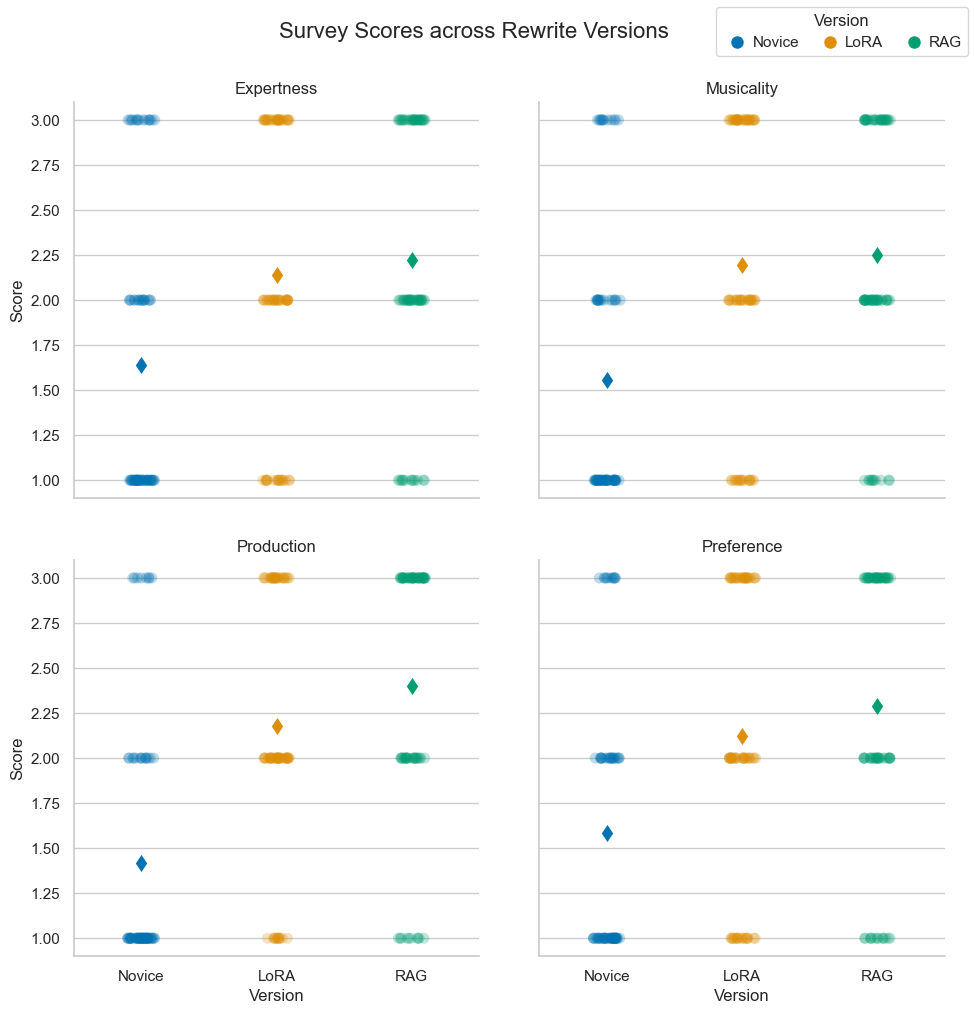
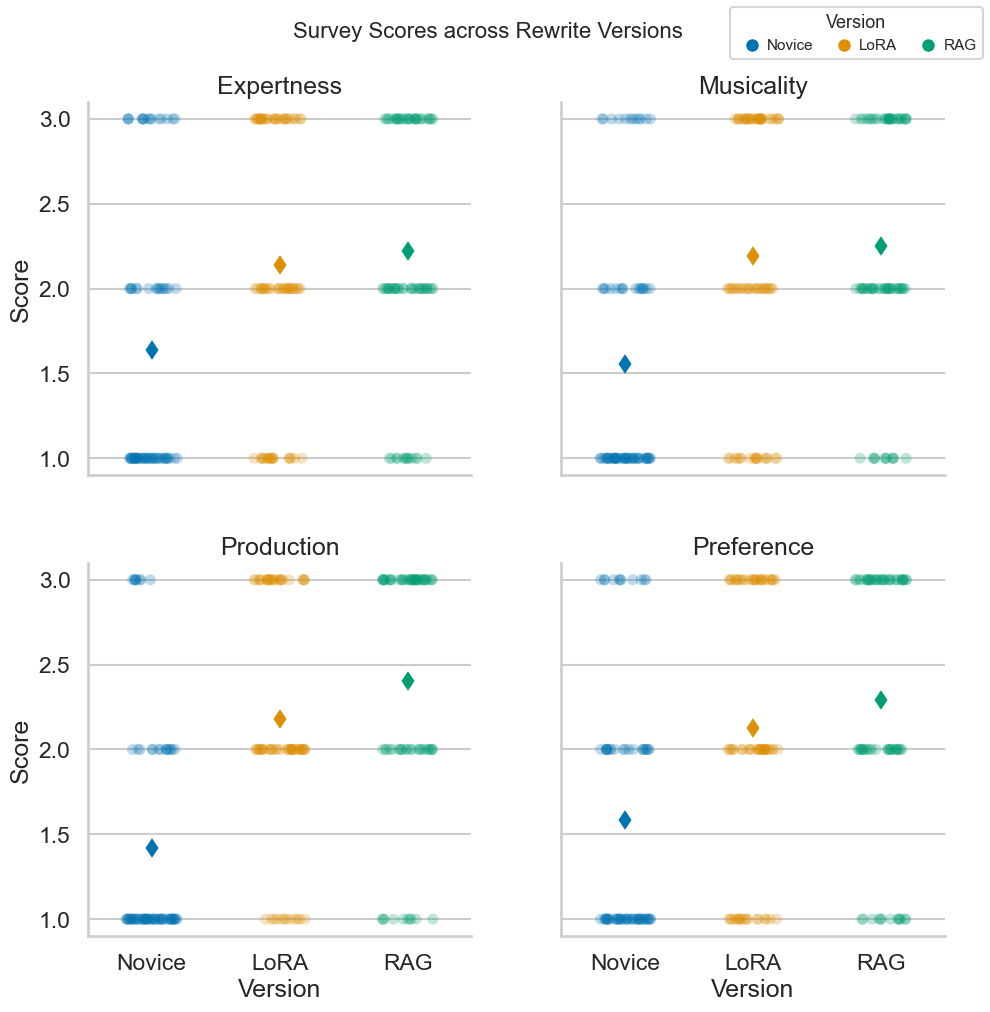
update plot visual elements

diff --git a/analysis/audiobox_aggregate.py b/analysis/audiobox_aggregate.py
@@ -114,6 +114,7 @@ df_long["Score"] = ((df_long["Score"] - 1) / 9) * 2 + 1
 
 def plot_metrics_by_promptid_facetgrid(df_long, save_path):
     sns.set_theme(style="whitegrid")
+    sns.set_context("talk")
     # Use a colorblind friendly palette for the boxplots
     palette = sns.color_palette("colorblind", n_colors=3)
     # Initialize the catplot with boxplot as base:
@@ -155,7 +156,7 @@ def plot_metrics_by_promptid_facetgrid(df_long, save_path):
     # Adjust y-axis and overall labels:
     g.set(ylim=(0.9,3.1))
     g.set_axis_labels("PromptID", "Score")
-    g.figure.suptitle("Audiobox Scores by Rewrite Version across PromptIDs", fontsize=16)
+    g.figure.suptitle("Audiobox Scores by Rewrite Version across PromptIDs", fontsize=14)
     g.figure.subplots_adjust(top=0.9)
     versions = ["Novice", "LoRA", "RAG"]
     # palette = sns.color_palette("tab10", n_colors=len(versions))
@@ -167,8 +168,9 @@ def plot_metrics_by_promptid_facetgrid(df_long, save_path):
     
     # Add the combined legend to the overall figure.
     legend = g.figure.legend(handles=legend_handles, labels=versions,
-                 loc="upper right", ncol=3, frameon=True, columnspacing=1, handletextpad=0)
+                 loc="upper right", ncol=3, frameon=True, columnspacing=1, handletextpad=0, prop={'size': 11})
     legend.set_title("Version")
+    legend.get_title().set_fontsize(11)
     plt.savefig(save_path, bbox_inches='tight')
     # Display the plot
     plt.show()
@@ -179,6 +181,7 @@ plot_metrics_by_promptid_facetgrid(df_long, "analysis/figures/audiobox_by_Prompt
 # marginalize promptID, Version across four score dimensions in facetgrid
 def plot_metrics_facetgrid(df_long, save_path):
     sns.set_theme(style="whitegrid")
+    sns.set_context("talk")
     palette = sns.color_palette("colorblind", n_colors=3)
     # Initialize the catplot with boxplot as base
     g = sns.catplot(
@@ -231,8 +234,9 @@ def plot_metrics_facetgrid(df_long, save_path):
     
     # Add the combined legend to the overall figure.
     legend = g.figure.legend(handles=legend_handles, labels=versions,
-                 loc="upper right", ncol=3, frameon=True, columnspacing=1, handletextpad=0)
+                 loc="upper right", ncol=3, frameon=True, columnspacing=1, handletextpad=0, prop={'size': 11})
     legend.set_title("Version")
+    legend.get_title().set_fontsize(11)
     plt.savefig(save_path, bbox_inches='tight')
 
     plt.show()
@@ -242,6 +246,7 @@ plot_metrics_facetgrid(df_long, "analysis/figures/audiobox_collapsed_plot")
 def plot_metrics_by_version_then_promptid_facetgrid(df_long, save_path):
 
     sns.set_theme(style="whitegrid")
+    sns.set_context("talk")
     palette = sns.color_palette("colorblind", n_colors=6)
     
     # Create a catplot with x as Version (aggregated) and facet by Metric.
@@ -301,10 +306,10 @@ def plot_metrics_by_version_then_promptid_facetgrid(df_long, save_path):
         ncol=3,
         frameon=True,
         columnspacing=1,
-        handletextpad=0
+        handletextpad=0, prop={'size': 10}
     )
     legend.set_title("PromptID")
-    
+    legend.get_title().set_fontsize(11)
     plt.savefig(save_path, bbox_inches='tight')
     plt.show()
 plot_metrics_by_version_then_promptid_facetgrid(df_long, "analysis/figures/audiobox_by_version_plot")
@@ -341,36 +346,134 @@ for metric in unique_metrics:
     print(f"Results for metric: {metric}")
     print(result.summary())
     print("\n")
-
+    
 # Example randomness of the Diffusion process Prompt 5 Indie 
+# Load data
 data = pd.read_json('analysis/diffusion_variation.jsonl', lines=True)
 df = pd.DataFrame(data)
 
-# Extract version from the path assuming the version is the first token in the second part of the path
-df['version'] = df['path'].apply(lambda x: x.split('/')[1].split(' ')[0])
+# Load data
+data = pd.read_json('analysis/diffusion_variation.jsonl', lines=True)
+df = pd.DataFrame(data)
 
-# Set the custom order for versions
+# Extract version from path
+df['Version'] = df['path'].apply(lambda x: x.split('/')[1].split(' ')[0])
 version_order = ['Novice', 'LoRA', 'RAG']
-df['version'] = pd.Categorical(df['version'], categories=version_order, ordered=True)
+df['Version'] = pd.Categorical(df['Version'], categories=version_order, ordered=True)
 
-# Now when sort by version or plot, they will follow the order "Novice", "LoRA", "RAG"
-versions = df['version'].cat.categories.tolist()
-
-# Define score types
+# Normalize scores to [1, 3]
 score_types = ['CU', 'PC', 'PQ', 'CE']
 for score in score_types:
     df[score] = ((df[score] - 1) / 9) * 2 + 1
-# Create boxplots for each score grouped by the custom version order
-fig, axes = plt.subplots(1, 4, figsize=(20, 5), sharey=True)
-for i, score in enumerate(score_types):
-    data_to_plot = [df[df['version'] == v][score] for v in version_order]
-    axes[i].boxplot(data_to_plot, labels=version_order)
-    axes[i].set_title(score)
-    axes[i].set_xlabel('Version')
-    if i == 0:
-        axes[i].set_ylabel('Score')
 
-plt.suptitle('Randomness of Diffusion Process PromptID:5 Scores across Rewrite Versions', fontsize=16)
-plt.tight_layout(rect=[0, 0.03, 1, 0.95])
-plt.style.use('tableau-colorblind10')
+# Melt into long-form
+df_long = df.melt(id_vars=['Version'], value_vars=score_types,
+                  var_name='Metric', value_name='Score')
+
+# Order metrics on y-axis
+metric_order = ['CU', 'PC', 'PQ', 'CE']
+df_long['Metric'] = pd.Categorical(df_long['Metric'], categories=metric_order, ordered=True)
+
+# Set style
+sns.set_theme(style="whitegrid")
+sns.set_context("talk")
+palette = sns.color_palette("colorblind", n_colors=3)
+
+# Create figure
+plt.figure(figsize=(10, 6))
+ax = plt.gca()
+sns.despine(bottom=True, left=True)
+
+# Boxplot
+sns.boxplot(
+    data=df_long,
+    x="Score", y="Metric", hue="Version",
+    palette=palette, dodge=True, showcaps=True,
+    boxprops={"alpha": 0.6},
+    whiskerprops={"linewidth": 1.2},
+    medianprops={"color": "black", "linewidth": 2},
+    fliersize=0,
+)
+
+# Stripplot overlay
+sns.stripplot(
+    data=df_long,
+    x="Score", y="Metric", hue="Version",
+    dodge=True, jitter=0.25, alpha=0.5,
+    size=5, palette=palette,
+    marker="o", linewidth=0,
+)
+
+# Clean up duplicated legends from both plots
+handles, labels = ax.get_legend_handles_labels()
+by_label = dict(zip(labels, handles))
+ax.legend(
+    by_label.values(), by_label.keys(),
+    title="Version", loc="lower left", ncol=3,
+    frameon=True, columnspacing=1, handletextpad=0, prop={'size': 11}
+)
+ax.get_legend().get_title().set_fontsize(13)
+
+# Set axis labels and title
+ax.set_xlim(0.9, 3.1)
+ax.set_xlabel("Score")
+ax.set_ylabel("Metric")
+ax.set_title("Diffusion Randomness PromptID:5", fontsize=16)
+
+plt.tight_layout()
+plt.savefig("analysis/figures/diffusion_randomness.png", bbox_inches='tight')
 plt.show()
+
+def plot_metrics_flat(df_long, save_path):
+    sns.set_theme(style="whitegrid")
+    sns.set_context("talk")
+    palette = sns.color_palette("colorblind", n_colors=3)
+
+    # Make sure Metric is ordered
+    metric_order = ["CU", "PC", "PQ", "CE"]
+    df_long["Metric"] = pd.Categorical(df_long["Metric"], categories=metric_order, ordered=True)
+
+    plt.figure(figsize=(10, 6))
+    ax = plt.gca()
+    sns.despine(bottom=True, left=True)
+
+    # Boxplot first
+    sns.boxplot(
+        data=df_long,
+        x="Score", y="Metric", hue="Version",
+        palette=palette, dodge=True, showcaps=True,
+        boxprops={"alpha": 0.6},
+        whiskerprops={"linewidth": 1.2},
+        medianprops={"color": "black", "linewidth": 2},
+        fliersize=0,
+    )
+
+    # Overlay stripplot
+    sns.stripplot(
+        data=df_long,
+        x="Score", y="Metric", hue="Version",
+        dodge=True, jitter=0.25, alpha=0.5,
+        size=5, palette=palette,
+        marker="o", linewidth=0,
+    )
+
+    # Handle duplicated legends from both plots
+    handles, labels = ax.get_legend_handles_labels()
+    by_label = dict(zip(labels, handles))
+    ax.legend(
+        by_label.values(), by_label.keys(),
+        title="Version", loc="lower left", ncol=3,
+        frameon=True, columnspacing=1, handletextpad=0, prop={'size': 11}
+    )
+    ax.get_legend().get_title().set_fontsize(13)
+
+    ax.set_xlim(0.9, 3.1)
+    ax.set_xlabel("Score")
+    ax.set_ylabel("Metric")
+    ax.set_title("Audiobox Scores across Rewrite Versions", fontsize=16)
+
+    plt.tight_layout()
+    plt.savefig(save_path, bbox_inches='tight')
+    plt.show()
+
+plot_metrics_flat(df_long, "analysis/figures/audiobox_irislike_plot")

diff --git a/analysis/stats_analysis.py b/analysis/stats_analysis.py
@@ -179,14 +179,14 @@ for dim in dimensions:
     # B) 
     # Fit an OLS model: Score ~ Version
     result = smf.ols("Score ~ C(Version)", data=df_long).fit()
-    # # Fit an OLS model: Score ~ Version * PromptID
+    # Fit an OLS model: Score ~ Version * PromptID
     result_promptID = fit_fixed_effect_model(df_long)
-    # # Fit a linear mixed model: Score ~ Version * PromptID + (1|PariticipantID)
+    # Fit a linear mixed model: Score ~ Version * PromptID + (1|PariticipantID)
     result_participantID = fit_mixed_model_promptID_participantID(df_long)
 
     # result_test = fit_mixed_model_promptID(df_long)
 
-    # # C) Print results
+    # C) Print results
     print(f"=== {dim.capitalize()} Score ~ Version Model ===")
     print(result.summary())
     print("\n")
@@ -195,9 +195,9 @@ for dim in dimensions:
     print(result_promptID.summary())
     print("\n")
 
-    print(f"=== {dim.capitalize()} Score ~ Version * PromptID + (1|ParticipantID) Model ===")
-    print(result_participantID.summary())
-    print("\n")
+    # print(f"=== {dim.capitalize()} Score ~ Version * PromptID + (1|ParticipantID) Model ===")
+    # print(result_participantID.summary())
+    # print("\n")
 
     # print(f"=== {dim.capitalize()} Score ~  Model ===")
     # print(result_test.summary())
@@ -233,6 +233,7 @@ def pivot_all_dimensions(df, dimensions):
 def plot_strip_point_collapsed_facetgrid(df_long, save_path):
 
     sns.set_theme(style="whitegrid")
+    sns.set_context("talk")
     palette = sns.color_palette("colorblind", n_colors=3)
     
     # Specify the desired facet order.
@@ -248,7 +249,7 @@ def plot_strip_point_collapsed_facetgrid(df_long, save_path):
         sns.stripplot(
             data=sub_df,
             x="Version", y="Score", hue="Version",dodge=False,
-            jitter=True, alpha=0.25, zorder=1, palette=palette, size=8,
+            jitter=0.2, alpha=0.25, zorder=1, palette=palette, size=8,
             ax=ax, legend=False
         )
         # Calculate dodge spacing based on the number of Versions.
@@ -280,14 +281,16 @@ def plot_strip_point_collapsed_facetgrid(df_long, save_path):
     
     # Add the combined legend to the overall figure.
     legend = g.figure.legend(handles=legend_handles, labels=versions,
-                 loc="upper right", ncol=3, frameon=True, columnspacing=1, handletextpad=0)
+                 loc="upper right", ncol=3, frameon=True, columnspacing=1, handletextpad=0, prop={'size': 11})
     legend.set_title("Version")
+    legend.get_title().set_fontsize(13)
     plt.savefig(save_path, bbox_inches='tight')
     plt.show()
 
 def plot_strip_point_by_dimension(df_long, save_path):
 
     sns.set_theme(style="whitegrid")
+    sns.set_context("talk")
     palette = sns.color_palette("colorblind", n_colors=6)
      # desired order for the Dimension facets
     facet_order = ["expertness", "musicality", "production", "preference"]
@@ -304,7 +307,7 @@ def plot_strip_point_by_dimension(df_long, save_path):
         sns.stripplot(
             data=sub_df,
             x="Version", y="Score", hue="PromptID",
-            dodge=True, jitter=True, alpha=0.25, zorder=1, size=8,
+            dodge=True, jitter=0.2, alpha=0.25, zorder=1, size=8,
             ax=ax, legend= False,
             palette=palette
         )
@@ -336,14 +339,16 @@ def plot_strip_point_by_dimension(df_long, save_path):
     ]
     
     legend = g.figure.legend(handles=legend_handles, labels=ids,
-                 loc="upper right", ncol=3, frameon=True, columnspacing=1, handletextpad=0)
+                 loc="upper right", ncol=3, frameon=True, columnspacing=1, handletextpad=0, prop={'size': 10})
     legend.set_title("PromptID")
+    legend.get_title().set_fontsize(11)
     plt.savefig(save_path, bbox_inches='tight')
     plt.show()
 
 def plot_strip_point_by_promptID_facetgrid(df_long, save_path):
 
     sns.set_theme(style="whitegrid")
+    sns.set_context("talk")
     palette = sns.color_palette("colorblind", n_colors=3)
     # desired order for the Dimension facets
     facet_order = ["expertness", "musicality", "production", "preference"]
@@ -363,7 +368,7 @@ def plot_strip_point_by_promptID_facetgrid(df_long, save_path):
             y="Score", 
             hue="Version",
             dodge=True, 
-            jitter=True, 
+            jitter=0.2, 
             alpha=0.25, 
             zorder=1, 
             # palette="tab10", 
@@ -395,7 +400,7 @@ def plot_strip_point_by_promptID_facetgrid(df_long, save_path):
     # Set y-axis limits to suit scores in the 1 to 3 range
     g.set(ylim=(0.9, 3.1))
     g.set_axis_labels("PromptID", "Score")
-    g.figure.suptitle("Survey Scores by Rewrite Version across PromptIDs", fontsize=16)
+    g.figure.suptitle("Survey Scores by Rewrite Version across PromptIDs", fontsize=14)
     g.figure.subplots_adjust(top=0.9, left=0.1)
 
     versions = ["Novice", "LoRA", "RAG"]
@@ -407,8 +412,9 @@ def plot_strip_point_by_promptID_facetgrid(df_long, save_path):
         for i, version in enumerate(versions)
     ]
     legend = g.figure.legend(handles=legend_handles, labels=versions,
-                 loc="upper right", ncol=3, frameon=True, columnspacing=1, handletextpad=0)
+                 loc="upper right", ncol=3, frameon=True, columnspacing=1, handletextpad=0,prop={'size': 11})
     legend.set_title("Version")
+    legend.get_title().set_fontsize(13)
     
     plt.savefig(save_path, bbox_inches='tight')
     plt.show()
